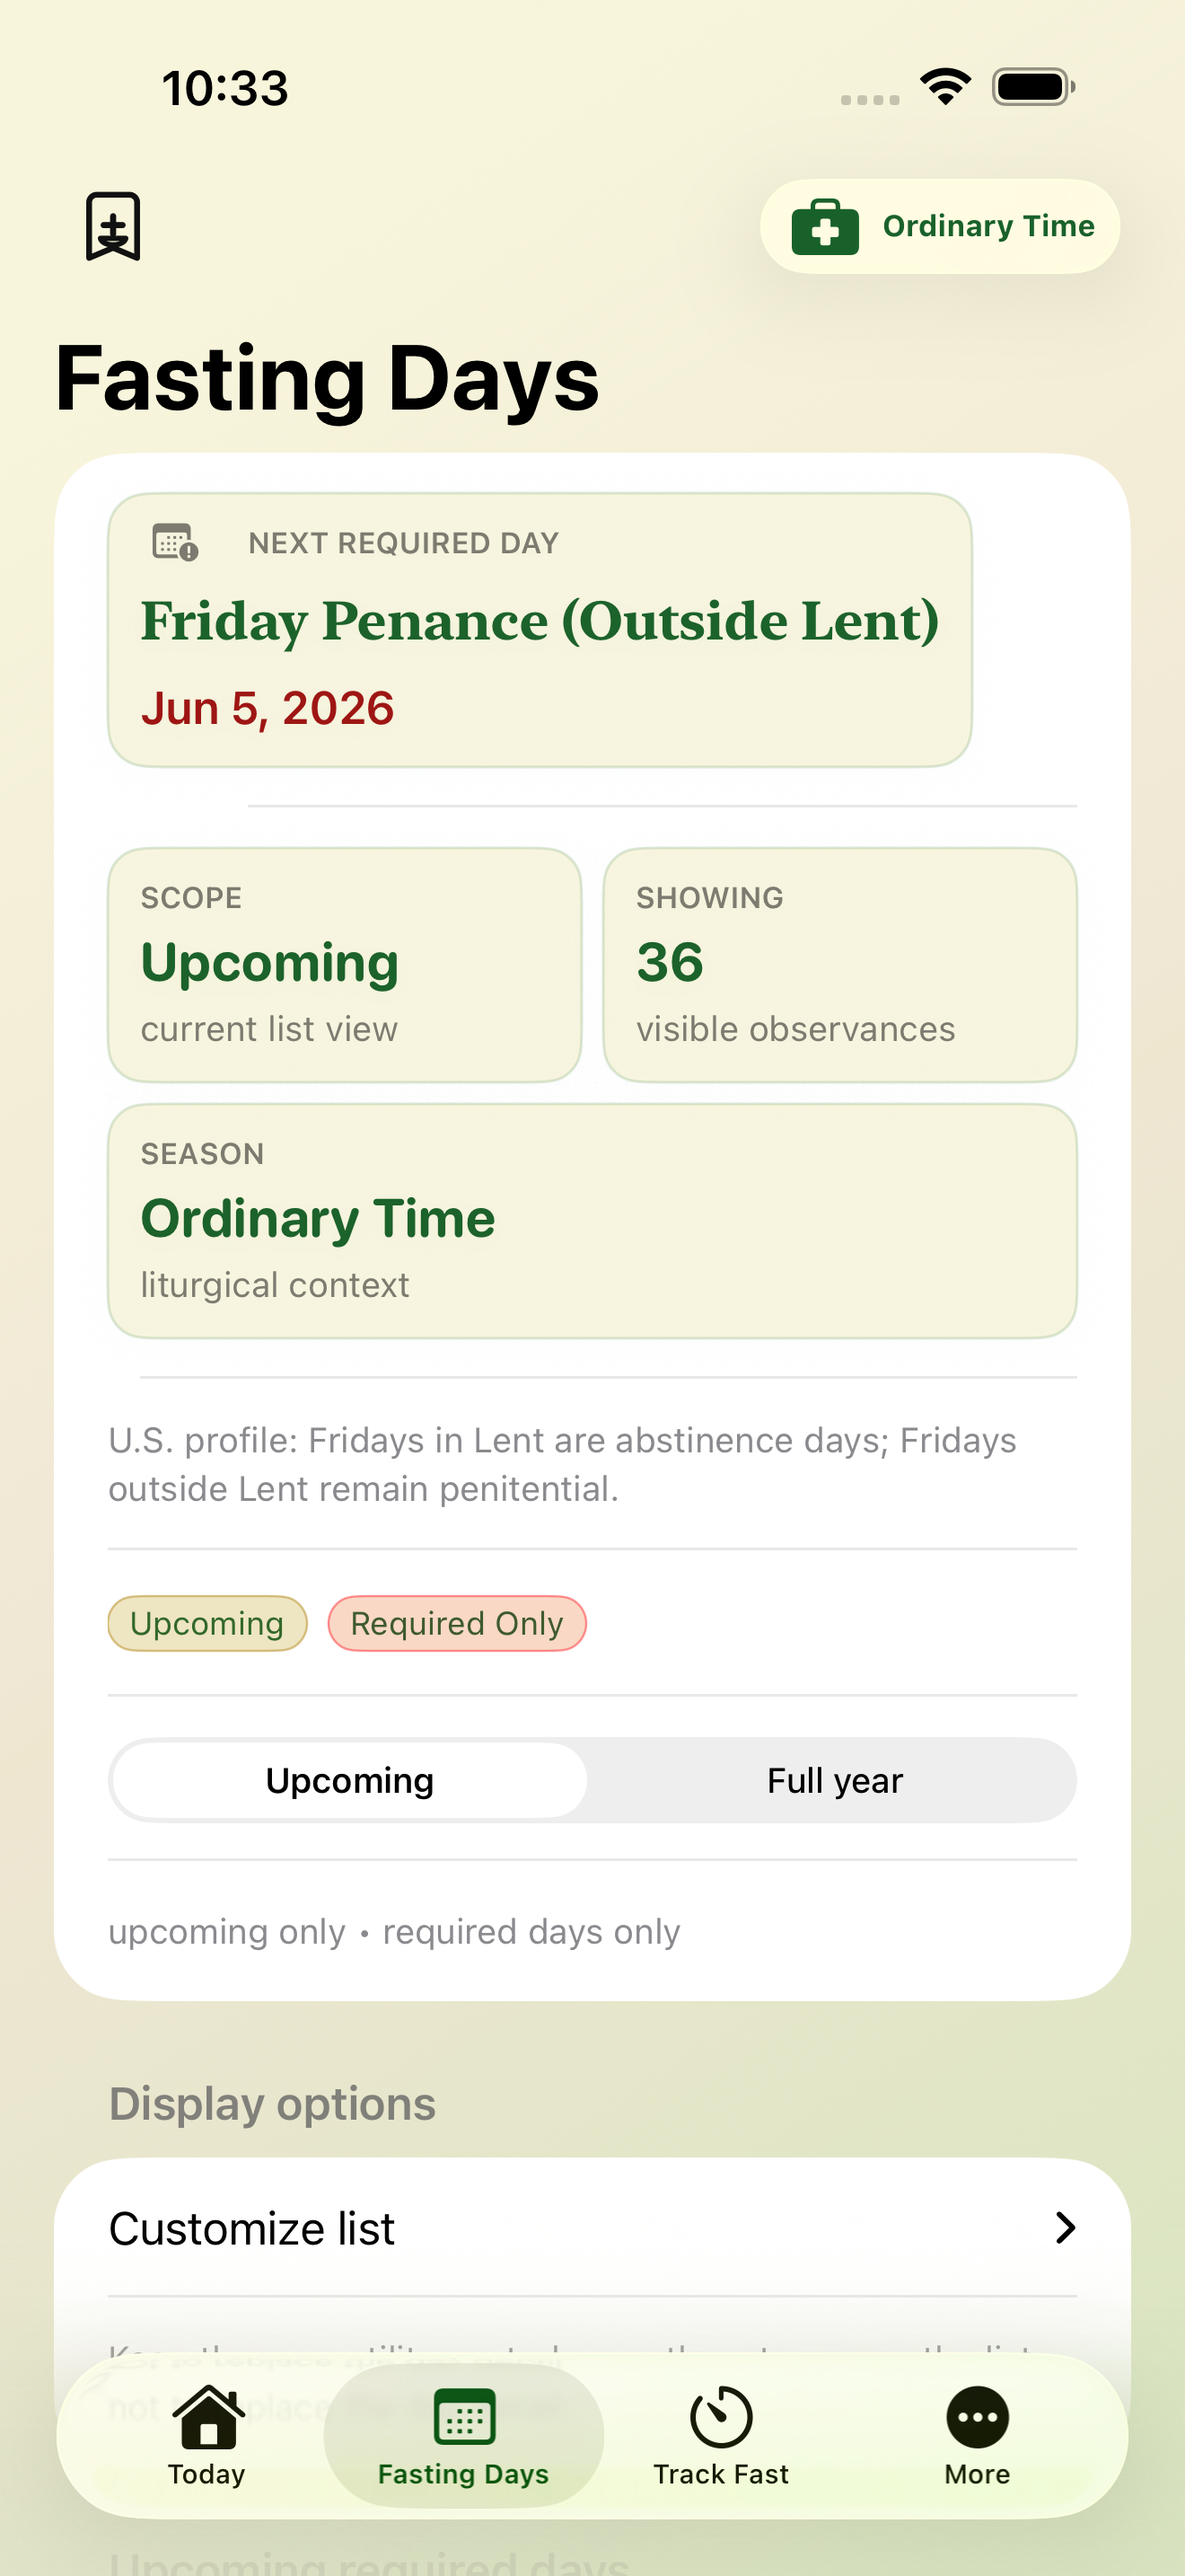
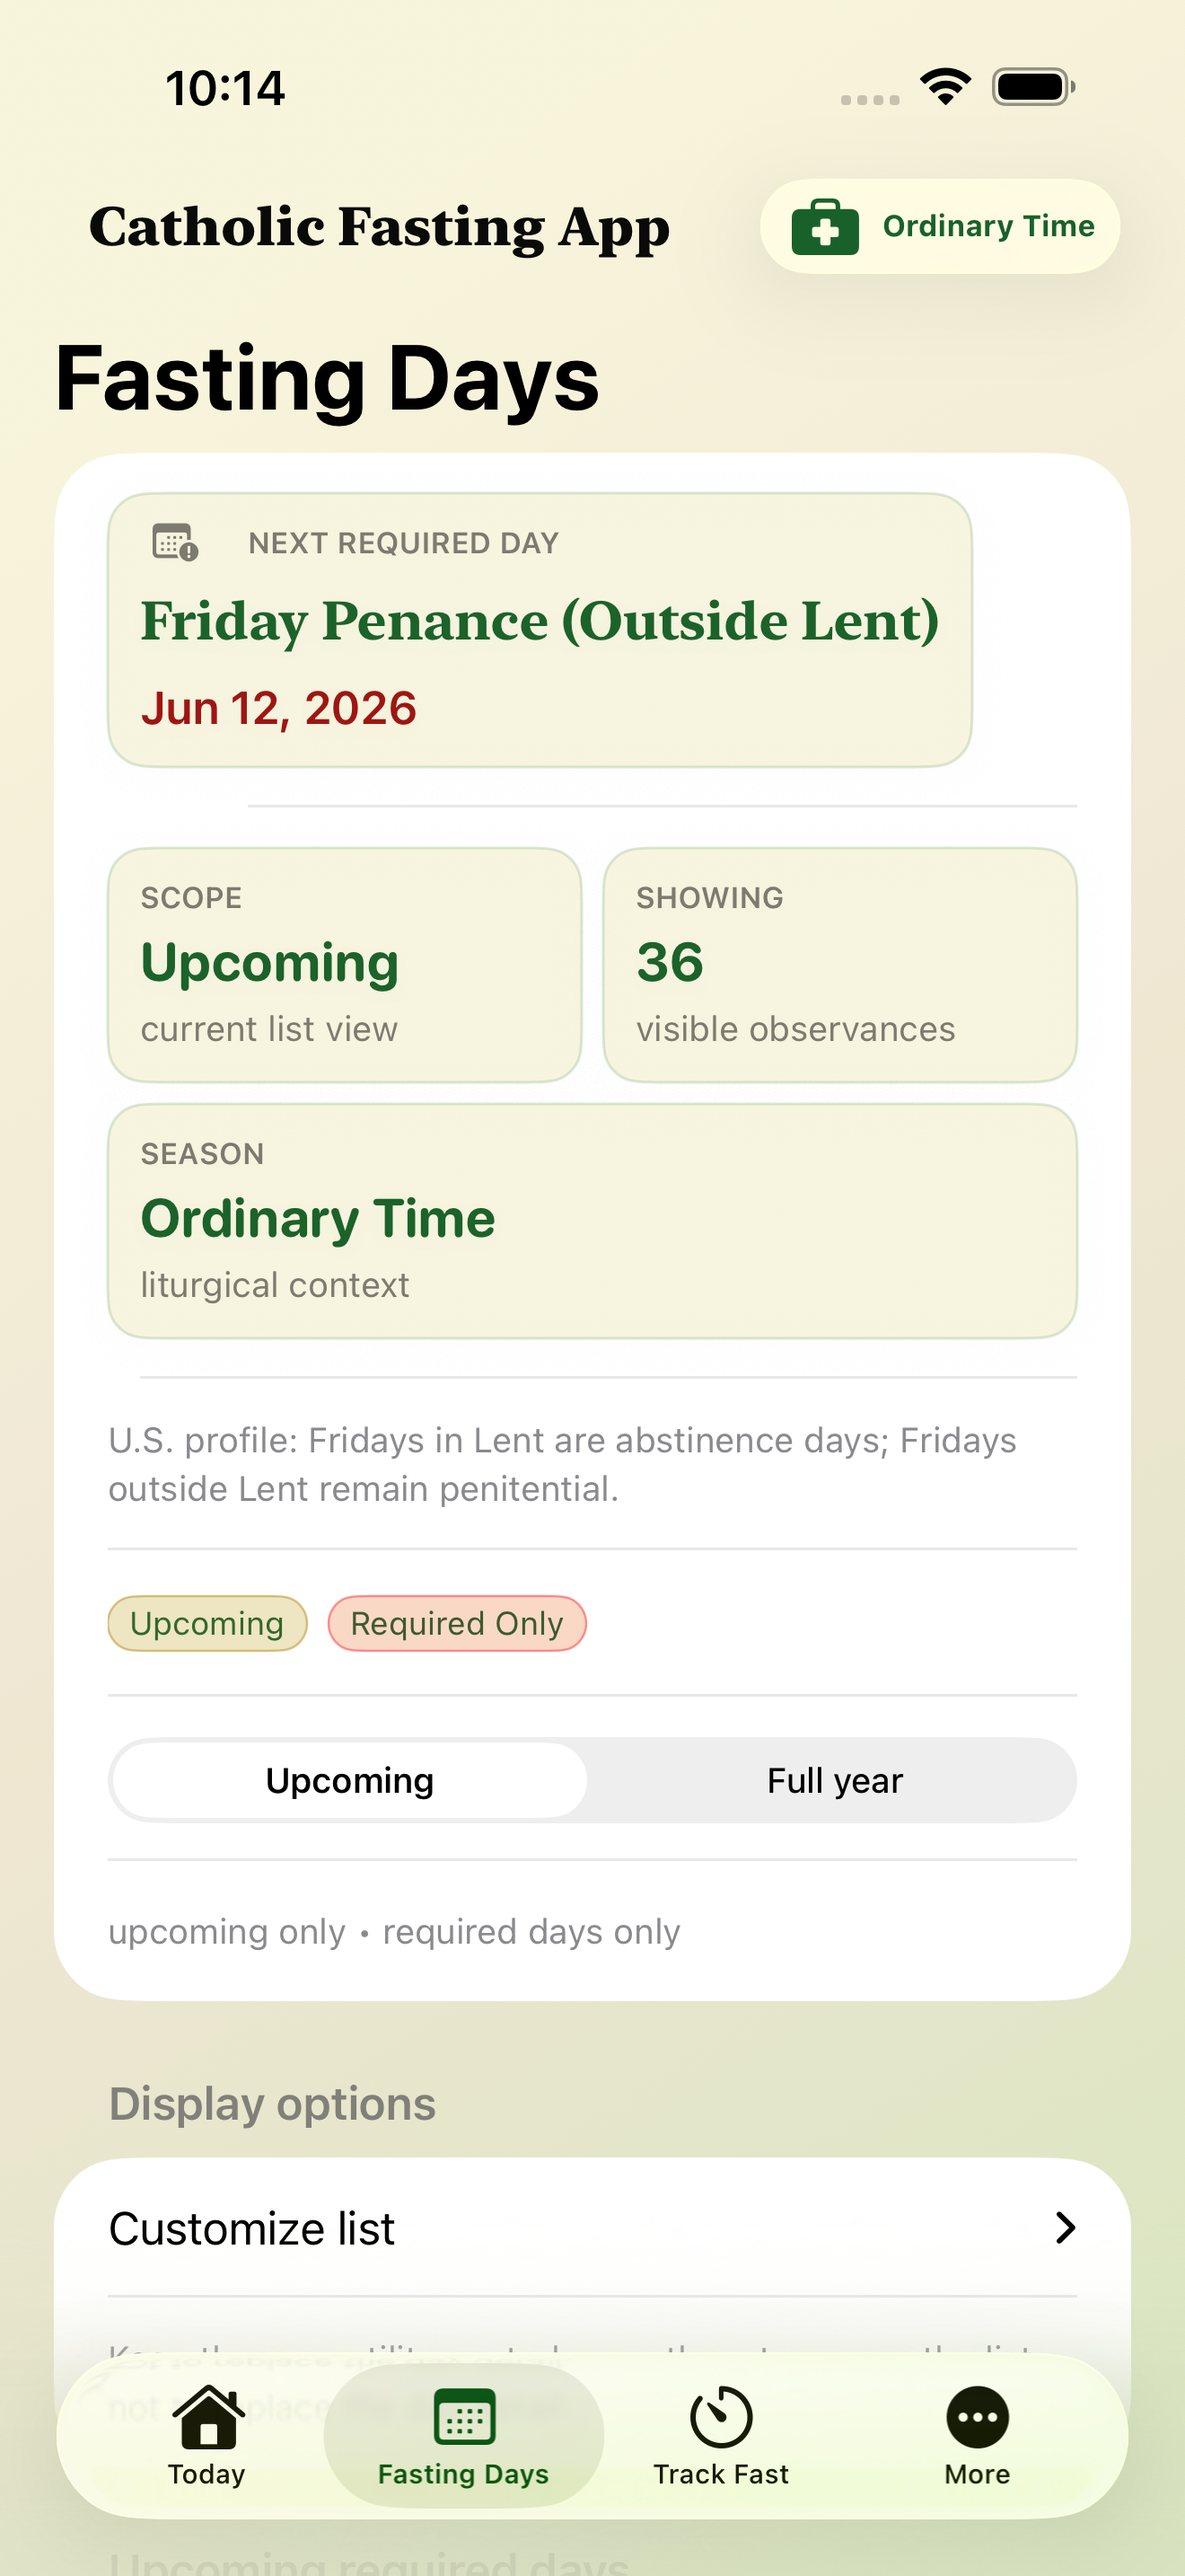
Use serif wordmark in app header

Changed region(s): [[0.0621, 0.031, 0.5591, 0.1241], [0.1864, 0.2483, 0.3417, 0.2793]]

diff --git a/CatholicFastingApp/ContentView+RootShell.swift b/CatholicFastingApp/ContentView+RootShell.swift
@@ -480,14 +480,17 @@ extension ContentView {
     }
 
     var phoneBrandMark: some View {
-        Image("CFAMark")
-            .resizable()
-            .renderingMode(.original)
-            .scaledToFit()
-            .frame(width: 30, height: 30)
+        Text(localized("shared.app_full_title", default: "Catholic Fasting App"))
+            .font(.system(.title3, design: .serif).weight(.heavy))
+            .foregroundStyle(.primary)
+            .kerning(0.15)
+            .lineLimit(1)
+            .minimumScaleFactor(0.72)
+            .fixedSize(horizontal: true, vertical: false)
+            .padding(.leading, 36)
             .allowsHitTesting(false)
             .accessibilityIdentifier("home.brand_mark")
-            .accessibilityLabel(localized("shared.app_title", default: "Catholic Fasting"))
+            .accessibilityLabel(localized("shared.app_full_title", default: "Catholic Fasting App"))
     }
 
     var todaySurfaceList: some View {
